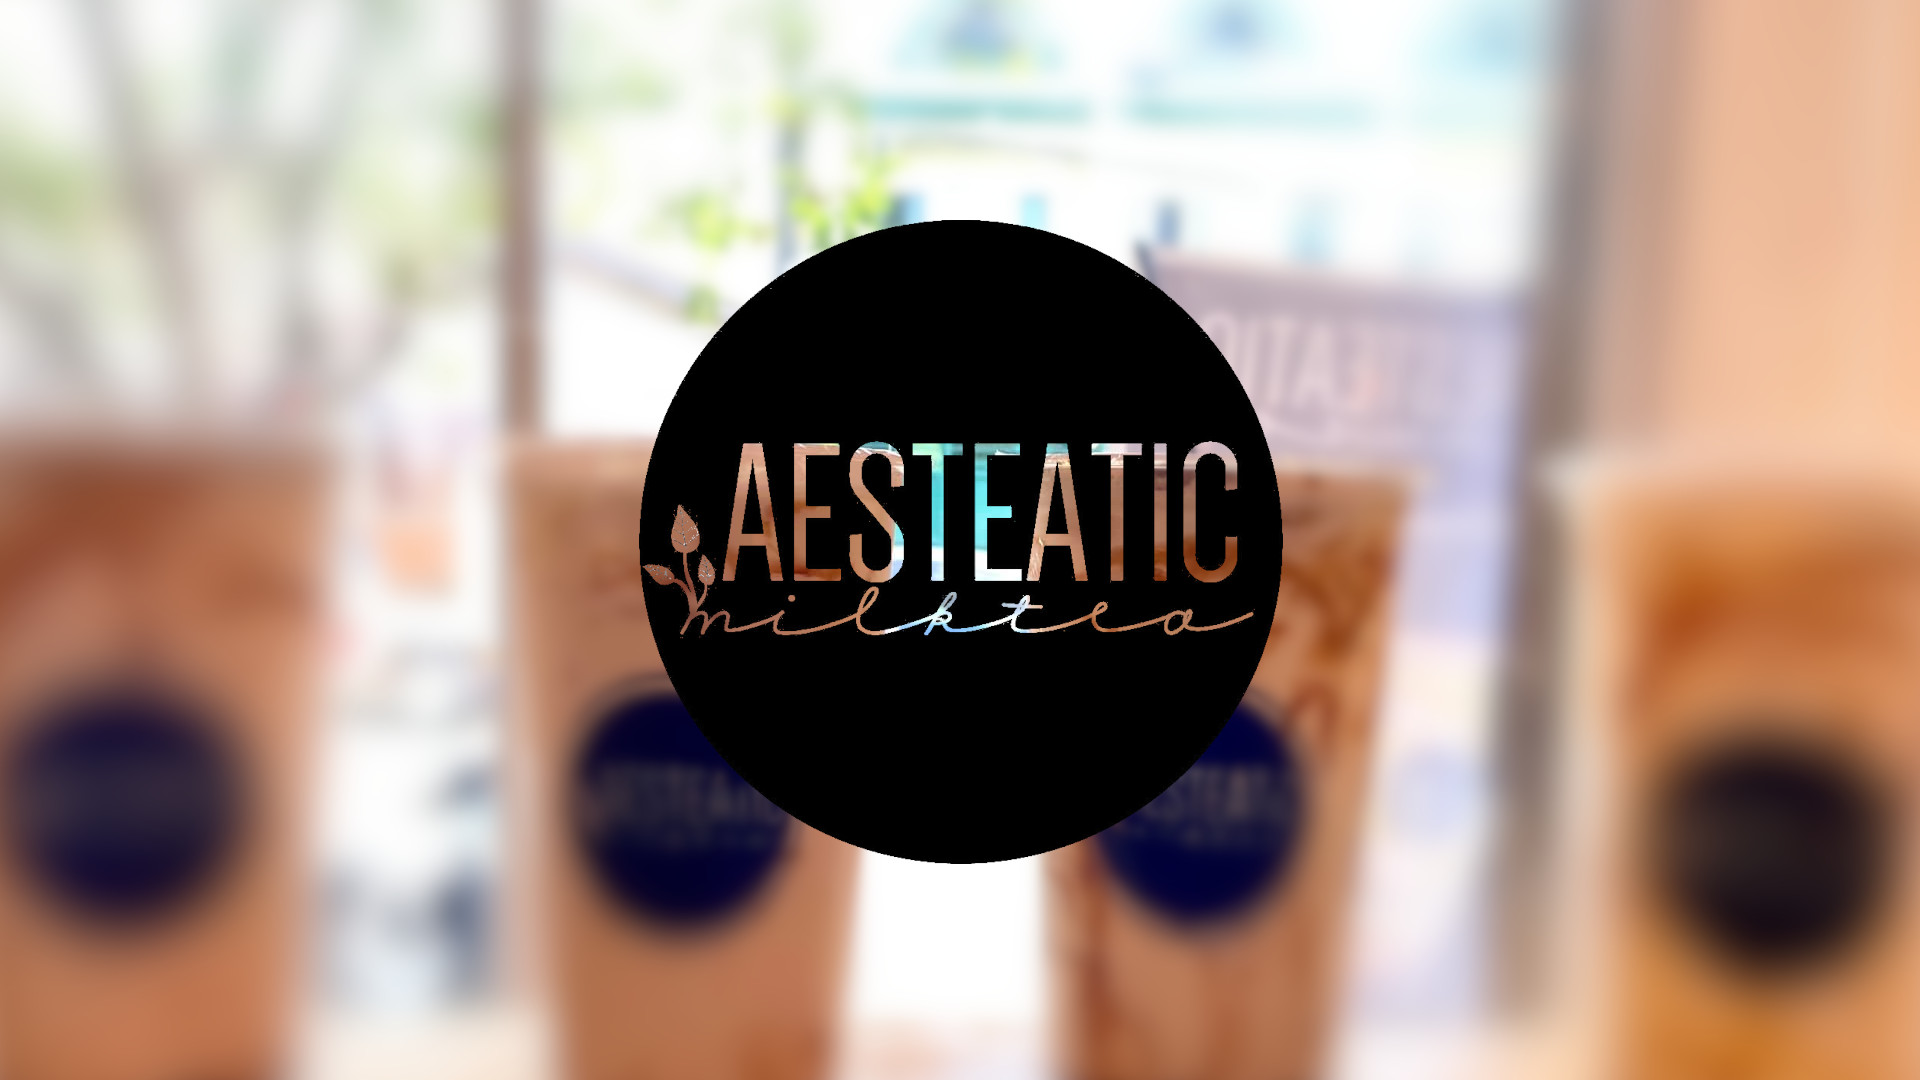
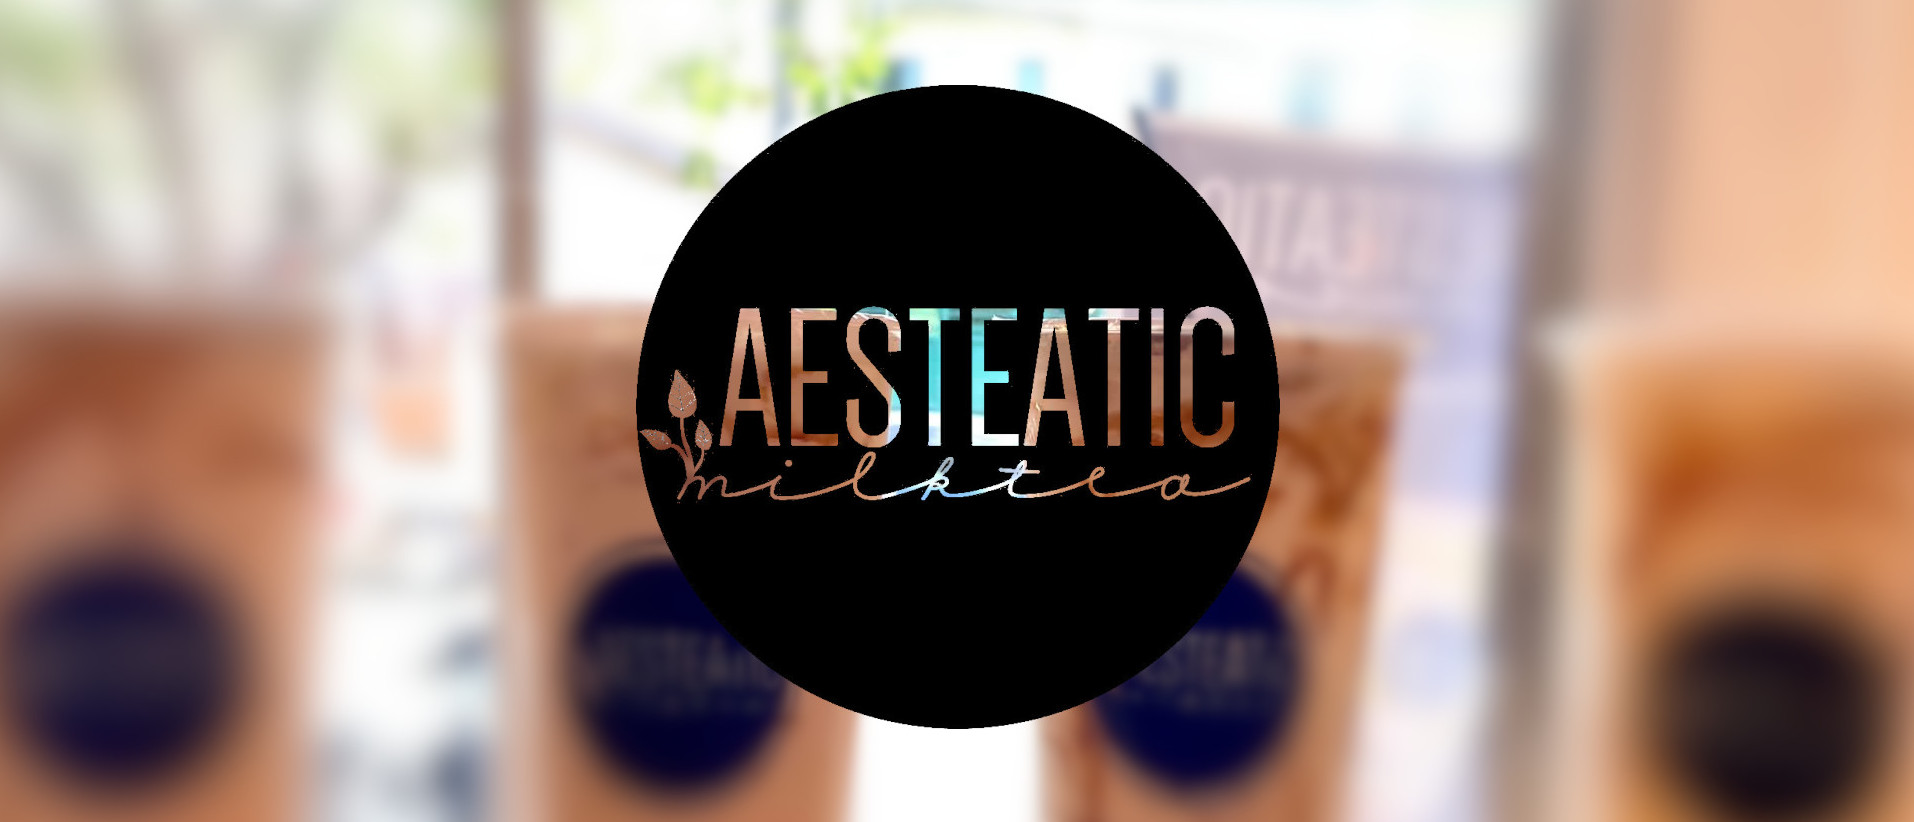
changed background to light; adjusted title image

diff --git a/index.html b/index.html
@@ -12,7 +12,7 @@
     </style>
   </head>
 
-  <body id="body" class="container-fluid bg-dark">
+  <body id="body" class="container-fluid bg-light">
     <!--div for aesteatic logo. may apply z-index for further interaction-->
     <div id="image-title" class="container-fluid">
       <img src="projects/aesteatic/teaset2blur.jpg" class="img-fluid" alt="temporary_background" id="title-background">
